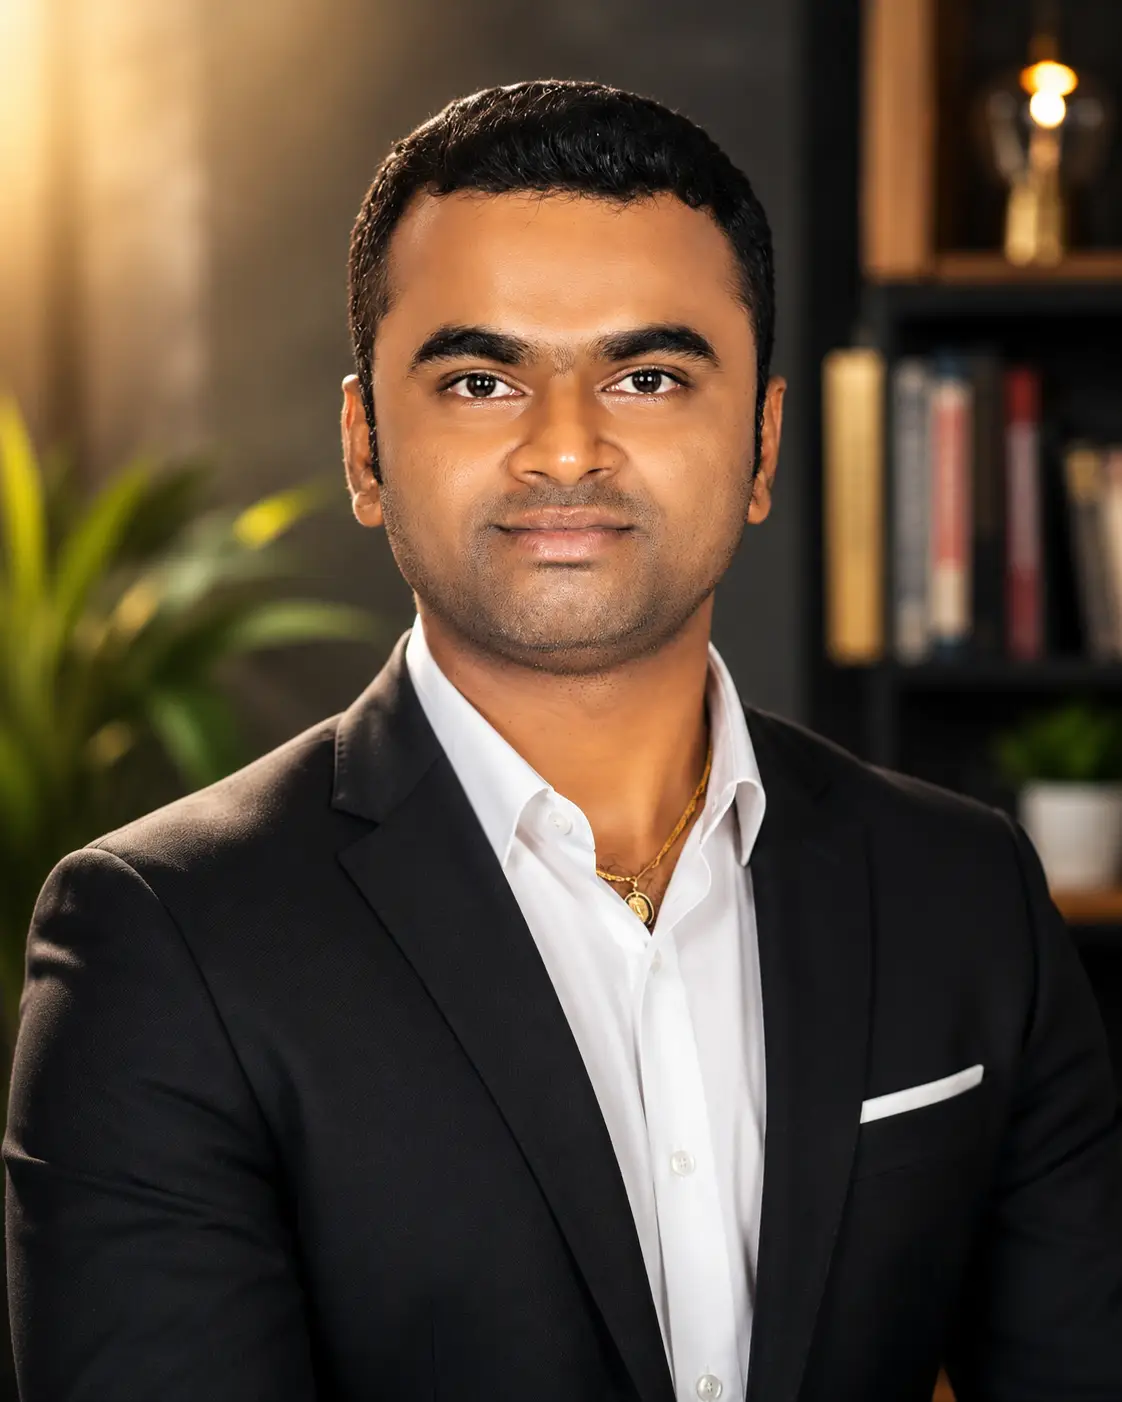
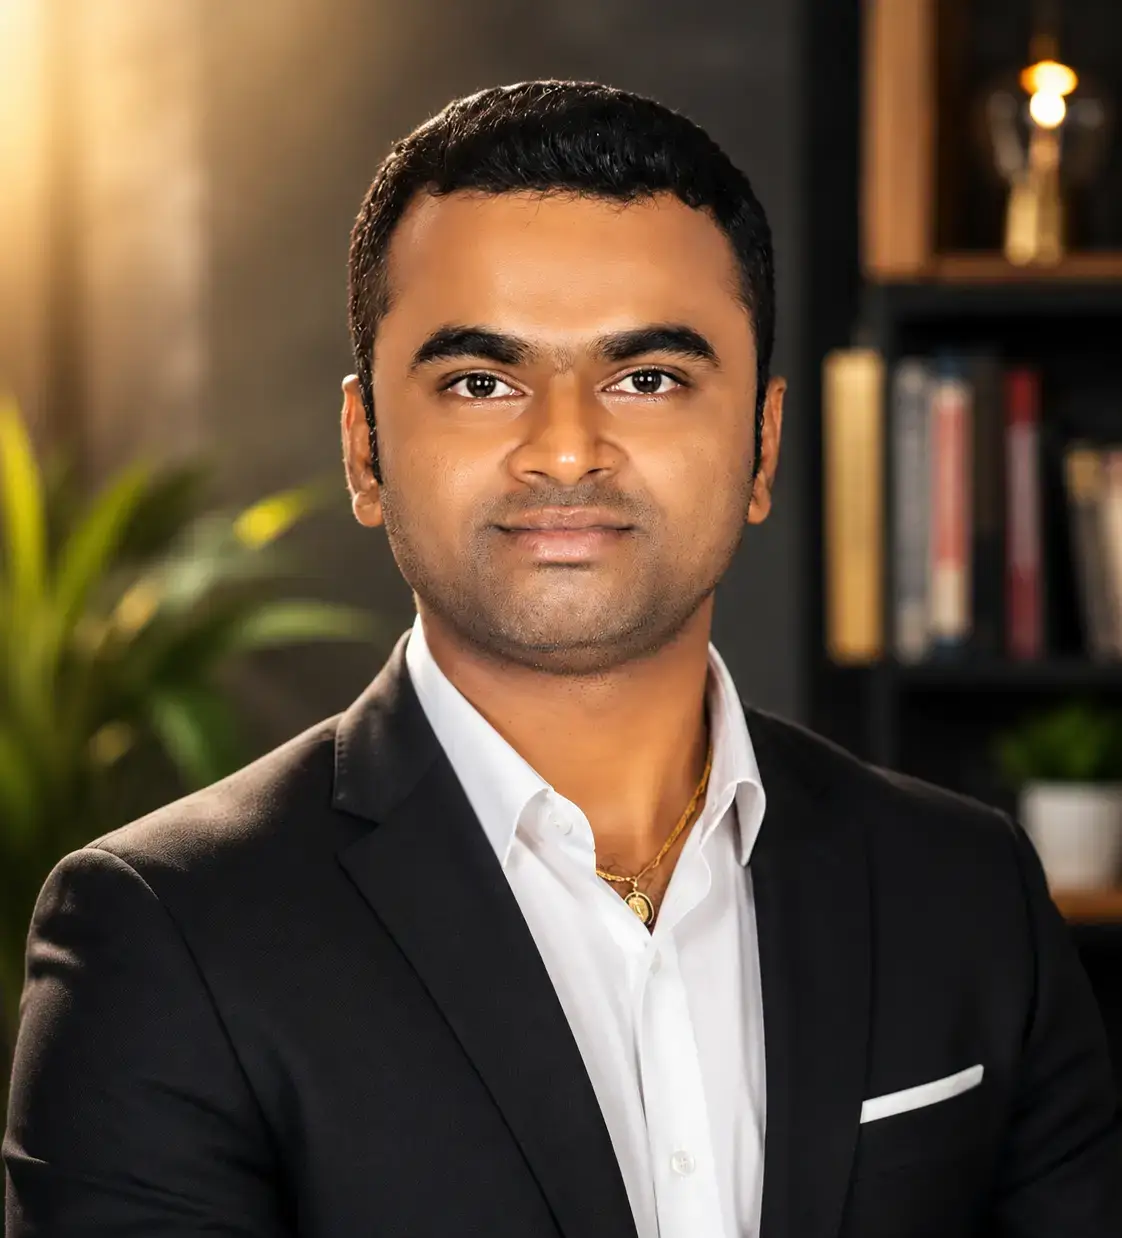
Team members added

diff --git a/js/products.js b/js/products.js
@@ -98,6 +98,12 @@ categoryButtons.forEach(button => {
         currentCategory = this.dataset.category;
         currentPage = 1;
         applyFilters();
+        if (window.innerWidth < 767) {
+            productsGrid.scrollIntoView({
+                behavior: "smooth",
+                block: "start"
+            });
+        }
     });
 });
 

diff --git a/css/style.css b/css/style.css
@@ -636,6 +636,7 @@ button {
         transition: .4s;
         z-index: 999;
         border-top: 2px solid var(--primary);
+        border-bottom: 2px solid var(--primary);
         padding: 20px 0;
     }
 

diff --git a/css/team.css b/css/team.css
@@ -55,7 +55,7 @@
     font-size: 19px;
     color: var(--heading-color);
     margin-bottom: 10px;
-    font-weight: 400;
+    font-weight: 600;
 }
 
 .team-content p {

diff --git a/css/product-details.css b/css/product-details.css
@@ -435,7 +435,8 @@
 
 @media(max-width:576px) {
     .variant-buttons{
-        gap:2px;
+        gap:10px;
+        flex-wrap: wrap;
     }
 }
 

diff --git a/api/contact.php b/api/contact.php
@@ -8,11 +8,13 @@ require_once "db.php";
 require_once "config.php";
 header("Content-Type: application/json");
 
-function getFallbackValue($value) {
+function getFallbackValue($value)
+{
     return !empty($value) ? $value : "-";
 }
 
-function getProductFeaturesHtml($productFeatures) {
+function getProductFeaturesHtml($productFeatures)
+{
     if (is_string($productFeatures)) {
         $decodedFeatures = json_decode($productFeatures, true);
         if (json_last_error() === JSON_ERROR_NONE) {
@@ -38,7 +40,8 @@ function getProductFeaturesHtml($productFeatures) {
     return $featuresHtml === "<ul style='margin: 0; padding-left: 20px;'></ul>" ? "-" : $featuresHtml;
 }
 
-function normalizeEmailAddress($email, $fallbackAddress = null) {
+function normalizeEmailAddress($email, $fallbackAddress = null)
+{
     $candidate = trim((string) $email);
     if ($candidate !== '' && filter_var($candidate, FILTER_VALIDATE_EMAIL)) {
         return $candidate;
@@ -54,7 +57,8 @@ function normalizeEmailAddress($email, $fallbackAddress = null) {
     return null;
 }
 
-function createMailer() {
+function createMailer()
+{
     $senderAddress = normalizeEmailAddress(SMTP_USER, MAIL_OWNER);
     if ($senderAddress === null) {
         throw new Exception('No valid sender email address is configured for the mailer.');
@@ -85,7 +89,8 @@ function createMailer() {
     return $mail;
 }
 
-function createEnquiryDetailsTable($data) {
+function createEnquiryDetailsTable($data)
+{
     $rows = "";
     $rows .= "<tr>";
     $rows .= "<th align='left' style='padding: 12px; border: 1px solid #e2e8f0; color: #64748b; width: 30%;'>Name</th>";
@@ -120,7 +125,21 @@ function createEnquiryDetailsTable($data) {
         $rows .= "<tr style='background-color: #f1f5f9;'>";
         $rows .= "<th align='left' style='padding: 12px; border: 1px solid #e2e8f0; color: #64748b;'>Product Image</th>";
         $rows .= "<td style='padding: 12px; border: 1px solid #e2e8f0; text-align: center;'>";
-        $rows .= !empty($data['productImage']) ? "<img src='" . htmlspecialchars($data['productImage'], ENT_QUOTES | ENT_SUBSTITUTE, 'UTF-8') . "' alt='" . htmlspecialchars($data['productName'], ENT_QUOTES | ENT_SUBSTITUTE, 'UTF-8') . "' style='max-width: 100%; height: auto;'>" : "-";
+        $imageUrl = !empty($data['productImage']) ? $data['productImage'] : '';
+
+        // Force absolute path[cite: 1]
+        if (!preg_match('~^(?:f|ht)tps?://~i', $imageUrl) && !empty($imageUrl)) {
+            $protocol = (!empty($_SERVER['HTTPS']) && $_SERVER['HTTPS'] !== 'off') ? "https://" : "http://";
+            $domain = $_SERVER['HTTP_HOST'] ?? 'concreteartsindia.infinityfree.io';
+            $imageUrl = $protocol . $domain . '/' . ltrim($imageUrl, '/');
+        }
+
+        $rows .= !empty($imageUrl)
+            ? "<img src='" . htmlspecialchars($imageUrl, ENT_QUOTES | ENT_SUBSTITUTE, 'UTF-8') . "' 
+                  alt='" . htmlspecialchars($data['productName'], ENT_QUOTES | ENT_SUBSTITUTE, 'UTF-8') . "' 
+                  class='product-image'
+                  style='display:block; max-width:100%; object-fit:cover;'>"
+            : "-";
         $rows .= "</td>";
         $rows .= "</tr>";
 
@@ -128,7 +147,7 @@ function createEnquiryDetailsTable($data) {
         $rows .= "<th align='left' style='padding: 12px; border: 1px solid #e2e8f0; color: #64748b;'>Product</th>";
         $rows .= "<td style='padding: 12px; border: 1px solid #e2e8f0; color: #1e293b;'>";
         if (!empty($data['productURL'])) {
-            $rows .= "<a href='" . htmlspecialchars($data['productURL'], ENT_QUOTES | ENT_SUBSTITUTE, 'UTF-8') . "' target='_blank' style='color: #b8864a; text-decoration: none;'>" . htmlspecialchars($data['productName'], ENT_QUOTES | ENT_SUBSTITUTE, 'UTF-8') . "</a>";
+            $rows .= htmlspecialchars($data['productName'], ENT_QUOTES | ENT_SUBSTITUTE, 'UTF-8');
         } else {
             $rows .= htmlspecialchars($data['productName'], ENT_QUOTES | ENT_SUBSTITUTE, 'UTF-8');
         }
@@ -175,7 +194,8 @@ function createEnquiryDetailsTable($data) {
     return $rows;
 }
 
-function buildEmailBody($headline, $intro, $detailsRows) {
+function buildEmailBody($headline, $intro, $detailsRows)
+{
     return "<div style='font-family: \"Roboto\", Helvetica, Arial, sans-serif; max-width: 600px; margin: 0 auto; background-color: #f8fafc; border: 1px solid #e2e8f0; border-radius: 8px; overflow: hidden;'>" .
         "<div style='background-color: #b8864a; padding: 25px; text-align: center;'>" .
         "<h1 style='color: #ffffff; margin: 0; font-size: 24px;'>Concrete Arts India</h1>" .
@@ -191,7 +211,7 @@ function buildEmailBody($headline, $intro, $detailsRows) {
         "<div style='margin-top: 40px; padding: 30px; background-color: #f8fafc; border-top: 1px solid #e2e8f0; text-align: center; color: #475569;'>" .
         "<p style='margin: 0 0 10px 0; font-weight: 600; font-size: 16px; color: #1e293b;'>Concrete Arts India</p>" .
         "<div style='margin-bottom: 20px;'>" .
-        "<a href='mailto:concreteartsindia@gmail.com' style='color: #334155; text-decoration: none; font-size: 14px; margin: 0 10px;'>📧 concreteartsindia@gmail.com</a>" .
+        "<a href='mailto:contact.concreteartsindia@gmail.com' style='color: #334155; text-decoration: none; font-size: 14px; margin: 0 10px;'>📧 contact.concreteartsindia@gmail.com</a>" .
         "<span style='color: #cbd5e1;'>|</span>" .
         "<a href='tel:+7506865658' style='color: #334155; text-decoration: none; font-size: 14px; margin: 0 10px;'>📞 +91 75068 65658</a>" .
         "</div>" .
@@ -375,7 +395,7 @@ try {
         $detailsRows
     );
     $ownerBody = buildEmailBody(
-        "New enquiry received",
+        "Dear Admin, new enquiry received,",
         "A new enquiry has been submitted through the website. Please review the details below and follow up with the customer as needed.",
         $detailsRows
     );
@@ -424,4 +444,3 @@ try {
         "message" => $e->getMessage()
     ]);
 }
-

diff --git a/team.php b/team.php
@@ -50,7 +50,7 @@
             "logo":"https://www.concreteartsindia.com/images/logo.png",
             "image":"https://www.concreteartsindia.com/images/logo.png",
             "telephone":"+91-9867704727",
-            "email":"concreteartsindia@gmail.com",
+            "email":"contact.concreteartsindia@gmail.com",
             "sameAs":[
                 "https://www.facebook.com/",
                 "https://www.instagram.com/",
@@ -66,7 +66,7 @@
             "image":"https://www.concreteartsindia.com/images/logo.png",
             "url":"https://www.concreteartsindia.com",
             "telephone":"+91-9867704727",
-            "email":"concreteartsindia@gmail.com",
+            "email":"contact.concreteartsindia@gmail.com",
             "priceRange":"₹₹",
             "address":{
                 "@type":"PostalAddress",
@@ -124,9 +124,9 @@
                         <i class="fa-solid fa-phone"></i>
                         +91 75068 65658
                     </a>
-                    <a href="mailto:concreteartsindia@gmail.com">
+                    <a href="mailto:contact.concreteartsindia@gmail.com">
                         <i class="fa-solid fa-envelope"></i>
-                        concreteartsindia@gmail.com
+                        contact.concreteartsindia@gmail.com
                     </a>
                 </div>
                 <div class="header-right">
@@ -218,7 +218,7 @@
                     </div>
 
                     <div class="team-card">
-                        <img src="images/team/rohit-kanekar.webp" alt="Civil Engineer">
+                        <img src="images/team/tanaji-bhosle.webp" alt="Civil Engineer">
                         <div class="team-content">
                             <h2>Tanaji Bhosle</h2>
                             <h3>Civil Engineer</h3>
@@ -400,8 +400,8 @@
                         </li>
                         <li>
                             <i class="fa-solid fa-envelope"></i>
-                            <a href="mailto:concreteartsindia@gmail.com">
-                                concreteartsindia@gmail.com
+                            <a href="mailto:contact.concreteartsindia@gmail.com">
+                                contact.concreteartsindia@gmail.com
                             </a>
                         </li>
                         <li>

diff --git a/index.php b/index.php
@@ -50,7 +50,7 @@
             "logo":"https://www.concreteartsindia.com/images/logo.png",
             "image":"https://www.concreteartsindia.com/images/logo.png",
             "telephone":"+91-9867704727",
-            "email":"concreteartsindia@gmail.com",
+            "email":"contact.concreteartsindia@gmail.com",
             "sameAs":[
                 "https://www.facebook.com/",
                 "https://www.instagram.com/",
@@ -66,7 +66,7 @@
             "image":"https://www.concreteartsindia.com/images/logo.png",
             "url":"https://www.concreteartsindia.com",
             "telephone":"+91-9867704727",
-            "email":"concreteartsindia@gmail.com",
+            "email":"contact.concreteartsindia@gmail.com",
             "priceRange":"₹₹",
             "address":{
                 "@type":"PostalAddress",
@@ -124,9 +124,9 @@
                         <i class="fa-solid fa-phone"></i>
                         +91 75068 65658
                     </a>
-                    <a href="mailto:concreteartsindia@gmail.com">
+                    <a href="mailto:contact.concreteartsindia@gmail.com">
                         <i class="fa-solid fa-envelope"></i>
-                        concreteartsindia@gmail.com
+                        contact.concreteartsindia@gmail.com
                     </a>
                 </div>
                 <div class="header-right">
@@ -703,8 +703,8 @@
                         </li>
                         <li>
                             <i class="fa-solid fa-envelope"></i>
-                            <a href="mailto:concreteartsindia@gmail.com">
-                                concreteartsindia@gmail.com
+                            <a href="mailto:contact.concreteartsindia@gmail.com">
+                                contact.concreteartsindia@gmail.com
                             </a>
                         </li>
                         <li>

diff --git a/contact.php b/contact.php
@@ -75,9 +75,9 @@
                         <i class="fa-solid fa-phone"></i>
                         +91 75068 65658
                     </a>
-                    <a href="mailto:concreteartsindia@gmail.com">
+                    <a href="mailto:contact.concreteartsindia@gmail.com">
                         <i class="fa-solid fa-envelope"></i>
-                        concreteartsindia@gmail.com
+                        contact.concreteartsindia@gmail.com
                     </a>
                 </div>
                 <div class="header-right">
@@ -183,8 +183,8 @@
                                 <i class="fa-solid fa-envelope"></i>
                                 <div>
                                     <h4>Email</h4>
-                                    <a href="mailto:concreteartsindia@gmail.com">
-                                        concreteartsindia@gmail.com
+                                    <a href="mailto:contact.concreteartsindia@gmail.com">
+                                        contact.concreteartsindia@gmail.com
                                     </a>
                                 </div>
                             </div>
@@ -372,8 +372,8 @@
                         </li>
                         <li>
                             <i class="fa-solid fa-envelope"></i>
-                            <a href="mailto:concreteartsindia@gmail.com">
-                                concreteartsindia@gmail.com
+                            <a href="mailto:contact.concreteartsindia@gmail.com">
+                                contact.concreteartsindia@gmail.com
                             </a>
                         </li>
                         <li>

diff --git a/about.php b/about.php
@@ -66,9 +66,9 @@
                         <i class="fa-solid fa-phone"></i>
                         +91 75068 65658
                     </a>
-                    <a href="mailto:concreteartsindia@gmail.com">
+                    <a href="mailto:contact.concreteartsindia@gmail.com">
                         <i class="fa-solid fa-envelope"></i>
-                        concreteartsindia@gmail.com
+                        contact.concreteartsindia@gmail.com
                     </a>
                 </div>
                 <div class="header-right">
@@ -344,8 +344,8 @@
                         </li>
                         <li>
                             <i class="fa-solid fa-envelope"></i>
-                            <a href="mailto:concreteartsindia@gmail.com">
-                                concreteartsindia@gmail.com
+                            <a href="mailto:contact.concreteartsindia@gmail.com">
+                                contact.concreteartsindia@gmail.com
                             </a>
                         </li>
                         <li>

diff --git a/gallery.php b/gallery.php
@@ -75,9 +75,9 @@
                         <i class="fa-solid fa-phone"></i>
                         +91 75068 65658
                     </a>
-                    <a href="mailto:concreteartsindia@gmail.com">
+                    <a href="mailto:contact.concreteartsindia@gmail.com">
                         <i class="fa-solid fa-envelope"></i>
-                        concreteartsindia@gmail.com
+                        contact.concreteartsindia@gmail.com
                     </a>
                 </div>
                 <div class="header-right">
@@ -271,8 +271,8 @@
                         </li>
                         <li>
                             <i class="fa-solid fa-envelope"></i>
-                            <a href="mailto:concreteartsindia@gmail.com">
-                                concreteartsindia@gmail.com
+                            <a href="mailto:contact.concreteartsindia@gmail.com">
+                                contact.concreteartsindia@gmail.com
                             </a>
                         </li>
                         <li>

diff --git a/product-details.php b/product-details.php
@@ -75,9 +75,9 @@
                         <i class="fa-solid fa-phone"></i>
                         +91 75068 65658
                     </a>
-                    <a href="mailto:concreteartsindia@gmail.com">
+                    <a href="mailto:contact.concreteartsindia@gmail.com">
                         <i class="fa-solid fa-envelope"></i>
-                        concreteartsindia@gmail.com
+                        contact.concreteartsindia@gmail.com
                     </a>
                 </div>
                 <div class="header-right">
@@ -270,8 +270,8 @@
                         </li>
                         <li>
                             <i class="fa-solid fa-envelope"></i>
-                            <a href="mailto:concreteartsindia@gmail.com">
-                                concreteartsindia@gmail.com
+                            <a href="mailto:contact.concreteartsindia@gmail.com">
+                                contact.concreteartsindia@gmail.com
                             </a>
                         </li>
                         <li>

diff --git a/products.php b/products.php
@@ -75,9 +75,9 @@
                         <i class="fa-solid fa-phone"></i>
                         +91 75068 65658
                     </a>
-                    <a href="mailto:concreteartsindia@gmail.com">
+                    <a href="mailto:contact.concreteartsindia@gmail.com">
                         <i class="fa-solid fa-envelope"></i>
-                        concreteartsindia@gmail.com
+                        contact.concreteartsindia@gmail.com
                     </a>
                 </div>
                 <div class="header-right">
@@ -365,8 +365,8 @@
                         </li>
                         <li>
                             <i class="fa-solid fa-envelope"></i>
-                            <a href="mailto:concreteartsindia@gmail.com">
-                                concreteartsindia@gmail.com
+                            <a href="mailto:contact.concreteartsindia@gmail.com">
+                                contact.concreteartsindia@gmail.com
                             </a>
                         </li>
                         <li>
